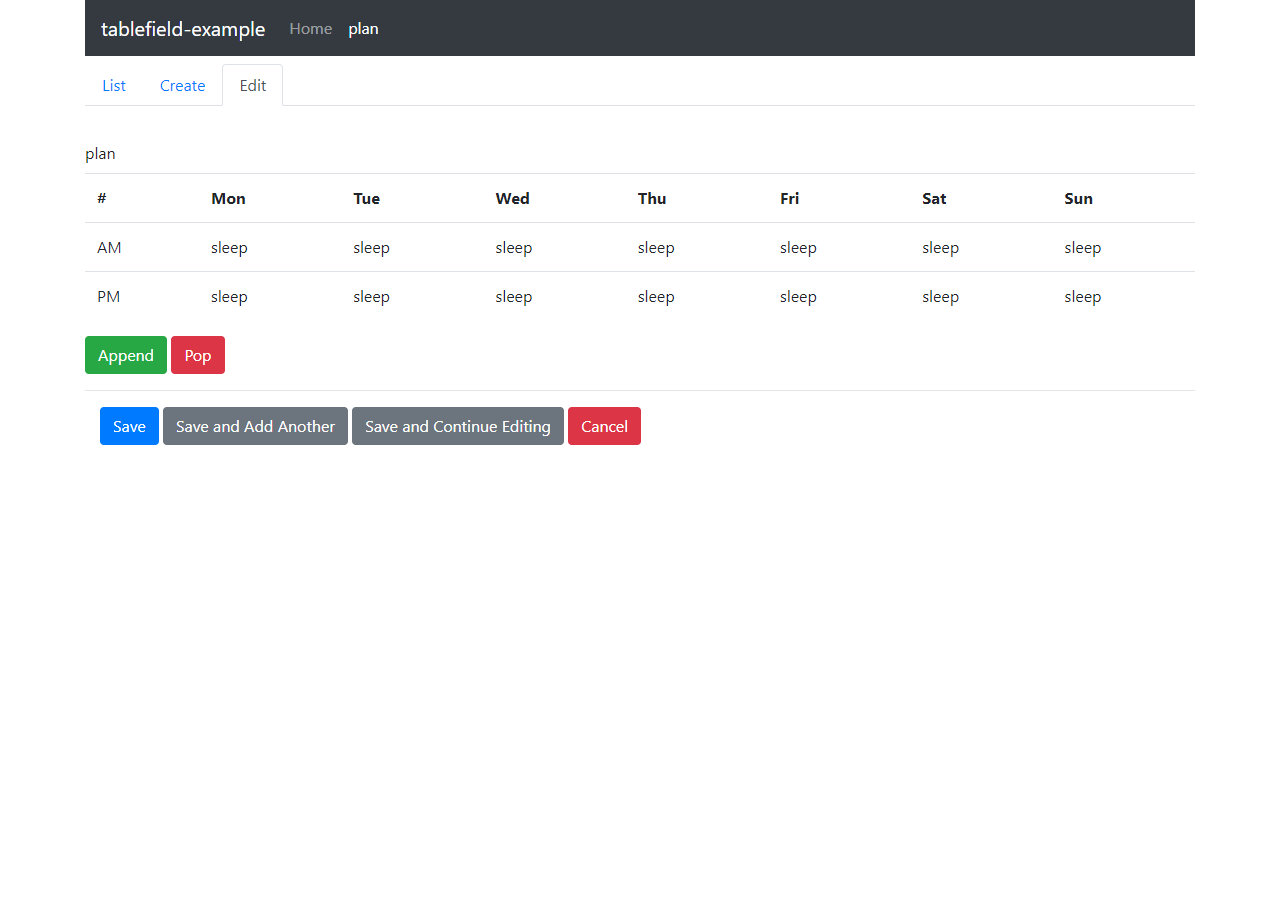
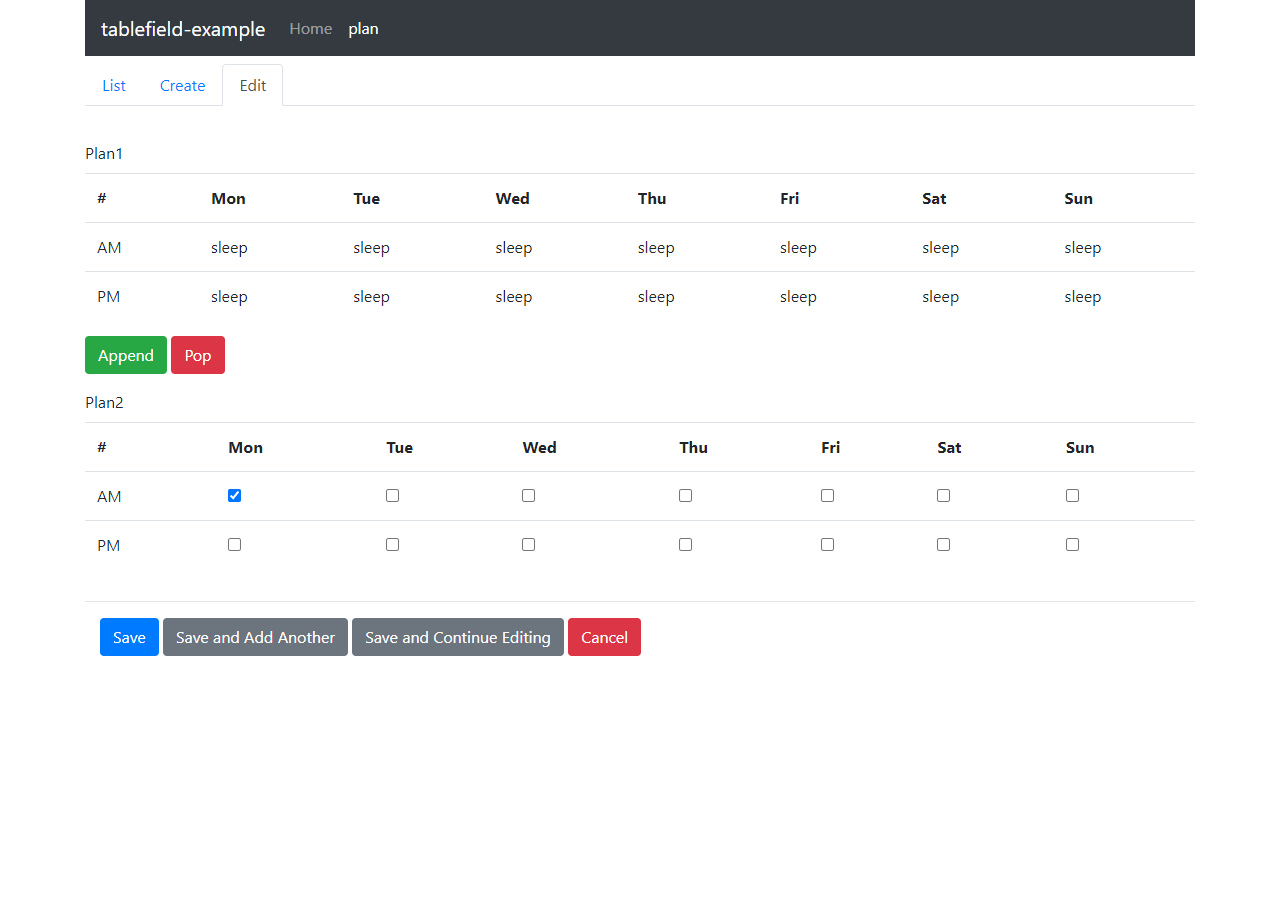
新增tablecheckboxfield

diff --git a/flask_admin_tablefield/templates/tablecheckboxfield.html b/flask_admin_tablefield/templates/tablecheckboxfield.html
@@ -1,0 +1,23 @@
+<div class="table-responsive">
+	<table class="table table-hover">
+
+		<!-- 表头 -->
+		<tr>
+			<th>{{ first_head_cell }}</th>
+			{% for cloumn_key in table_data[table_data.keys().__iter__().__next__()].keys() %}
+				<th>{{ cloumn_key }}</th>
+			{% endfor %}
+		</tr>
+
+		<!-- 数据库的数据 -->
+		{% for row_key in table_data.keys() %}
+			<tr>
+				<td>{{ row_key }}</td>
+				{% for cloumn_key in table_data[row_key].keys() %}
+					<td><input type="checkbox" id="{{ field_id }}" name="{{ field_id }}" value="{{ row_key }}:{{ cloumn_key }}" {{ '' if table_data[row_key][cloumn_key] in [0,'0',] else 'checked' }}/></td>
+				{% endfor %}
+			</tr>
+		{% endfor %}
+
+	</table>
+</div>

diff --git a/flask_admin_tablefield/templates/tablefield.html b/flask_admin_tablefield/templates/tablefield.html
@@ -29,13 +29,15 @@
 
 	<input type="text" id="{{ input_id }}" name='{{ input_id }}' value='' style="display:none">
 
-	<div onclick="add_row('{{ table_id }}')" type="buttom" class="btn btn-success">
-		Append
-	</div>
+	{% if is_showing_btn == True %}
+		<div onclick="add_row('{{ table_id }}')" type="buttom" class="btn btn-success">
+			Append
+		</div>
 
-	<div onclick="delete_last_row('{{ table_id }}')" type="buttom" class="btn btn-danger">
-		Pop
-	</div>
+		<div onclick="delete_last_row('{{ table_id }}')" type="buttom" class="btn btn-danger">
+			Pop
+		</div>
+	{% endif %}
 
 
 	<!-- <div onclick="table2json2input('{{ table_id }}','{{ input_id }}')" type="buttom" class="btn btn-success">

diff --git a/flask_admin_tablefield/tablefield.py b/flask_admin_tablefield/tablefield.py
@@ -6,33 +6,33 @@ import os
 import traceback
 import json
 
+import copy
 
-# import logging
-# logging.basicConfig(level=logging.DEBUG)
-# logger = logging.getLogger(__name__)
+import logging
+logging.basicConfig(level=logging.DEBUG)
+logger = logging.getLogger(__name__)
+
 
 class TableField(StringField):
 
 	# 表头
 	headers = []
+	is_showing_btn = True
 
 	def __new__(cls,*args,**kwargs):
 
 		if kwargs.get('headers') is not None or (args and isinstance(args[0], list)):
-			cls.headers = kwargs.get('headers') or args[0]
-			return cls
+			headers = kwargs.get('headers') or args[0]
+			#clone = copy.deepcopy(cls)
+			clone = type(str(abs(hash(str(headers)))),(cls,),{})
+			clone.headers = headers
+			if kwargs.get('is_showing_btn') is not None:
+				clone.is_showing_btn = kwargs.get('is_showing_btn')
+			return clone
 		else:
-			# print('__new__')
-			# print(cls)
-			# print(args)
-			# print(kwargs)
 			return super().__new__(cls,*args, **kwargs)
 
 	def process_formdata(self, valuelist=None, **args):
-
-		# logger.debug('>>> process_formdata')
-		# logger.debug(self.data)
-		# logger.debug(valuelist)
 		
 		if valuelist:
 			try:
@@ -43,15 +43,9 @@ class TableField(StringField):
 			self.data = "[]"
 
 	def __call__(self, **kwargs):
-
-		# logger.debug('>>> __call__')
-		# logger.debug(self.headers)
 		try:
 			json_data = json.loads(self.data)
 		except:
-			# logger.debug('>> loads error!')
-			# logger.debug(self.data)
-			# logger.debug(traceback.format_exc())
 			json_data = []
 
 		table_id='table_'+self.id
@@ -66,4 +60,5 @@ class TableField(StringField):
 			table_data=json_data,
 			table_id=table_id,
 			input_id=self.id,
+			is_showing_btn=self.is_showing_btn
 		)

diff --git a/flask_admin_tablefield/tablecheckboxfield.py b/flask_admin_tablefield/tablecheckboxfield.py
@@ -1,0 +1,54 @@
+from wtforms.fields.core import StringField
+from jinja2 import Template
+import copy
+import json
+import os
+
+class TableCheckBoxField(StringField):
+
+	first_head_cell = "#"
+
+	def __new__(cls,*args,**kwargs):
+
+		if kwargs.get('table_data') is not None or (args and isinstance(args[0], dict)):
+			table_data = kwargs.get('table_data') or args[0]
+			clone = type(str(abs(hash(str(table_data)))),(cls,),{})
+			clone.init_data = table_data
+			if kwargs.get('first_head_cell') is not None:
+				clone.first_head_cell = kwargs.get('first_head_cell')
+			return clone
+		else:
+			return super().__new__(cls,*args, **kwargs)
+
+	def process_formdata(self, valuelist=None, **args):
+
+		try:
+			data = copy.deepcopy(self.init_data)
+			if valuelist:
+				for option in valuelist:
+					_class,_day = option.split(":")
+					data[_class][_day] = 1
+
+			self.data = json.dumps(data)
+		except Exception as e:
+			raise e
+			self.data = data
+			raise ValueError("表数据格式错误！")
+
+	def __call__(self, **kwargs):
+
+		try:
+			table_data = json.loads(self.data)
+		except:
+			table_data = copy.deepcopy(self.init_data)
+
+		template = None
+		with open(os.path.join(os.path.dirname(__file__),'templates','tablecheckboxfield.html'), 'r', encoding='utf-8') as f:
+			html = f.read()
+			template = Template(html)
+
+		return template.render(
+			first_head_cell=self.first_head_cell,
+			table_data=table_data,
+			field_id=self.id,
+		)

diff --git a/example.py b/example.py
@@ -35,10 +35,11 @@ class PlanModel(db.Model):
 	__tablename__ = 'plan'
 
 	id = Column(Integer, primary_key=True)
-	plan = Column(Text(10800))
+	plan1 = Column(Text(10800))
+	plan2 = Column(Text(10800))
 
 from flask_admin.contrib import sqla
-from flask_admin_tablefield import TableField
+from flask_admin_tablefield import TableField,TableCheckBoxField
 class PlanAdmin(sqla.ModelView):
 
 	column_labels = {'plan':'plan',}
@@ -46,9 +47,14 @@ class PlanAdmin(sqla.ModelView):
 	column_list = ['id',]
 
 	form_overrides = {
-		'plan':TableField([
+		'plan1':TableField([
 			"#","Mon","Tue","Wed","Thu","Fri","Sat","Sun",
 		]),
+
+		'plan2':TableCheckBoxField({
+			'AM':{"Mon":0,"Tue":0,"Wed":0,"Thu":0,"Fri":0,"Sat":0,"Sun":0,},
+			'PM':{"Mon":0,"Tue":0,"Wed":0,"Thu":0,"Fri":0,"Sat":0,"Sun":0,}
+		}),
 	}
 
 admin.add_view(PlanAdmin(PlanModel, db.session, name=u'plan'))

diff --git a/setup.py b/setup.py
@@ -2,7 +2,7 @@ import setuptools
 
 setuptools.setup(
     name="flask-admin-tablefield",
-    version="0.1.2022.3.6",
+    version="0.2.2022.3.7",
     author="hxh",
     author_email="cllenishxh@gmail.com",
     description="table field for flask-admin!",

diff --git a/flask_admin_tablefield/__init__.py b/flask_admin_tablefield/__init__.py
@@ -1,3 +1,4 @@
 from .tablefield import TableField
+from .tablecheckboxfield import TableCheckBoxField
 
-__version__ = '0.1.2022.3.6'
+__version__ = '0.2.2022.3.7'

diff --git a/README.md b/README.md
@@ -2,7 +2,7 @@
 
 This is a field for flask-admin. It can render a text(json) field into a table html that can be edited.
 
-# Setup
+# Installation
 
 ```shell
 pip install flask-admin-tablefield
@@ -12,7 +12,7 @@ pip install flask-admin-tablefield
 
 ```python
 from flask import Flask
-from flask_admin import Admin 
+from flask_admin import Admin
 from flask_sqlalchemy import SQLAlchemy
 from sqlalchemy import Column, Integer, Text
 from flask_bootstrap import Bootstrap
@@ -79,4 +79,9 @@ if __name__ == '__main__':
 
 Check http://localhost:5000/admin
 
-![example](https://github.com/cllen/flask-admin-tablefield/blob/master/example.png)
+![example](https://github.com/cllen/flask-admin-tablefield/blob/master/example.png?raw=true)
+
+# Update
+
+- [x] 2022年3月6日 add feature `TableField`
+- [x] 2022年3月7日 add feature `TableCheckBoxField`
